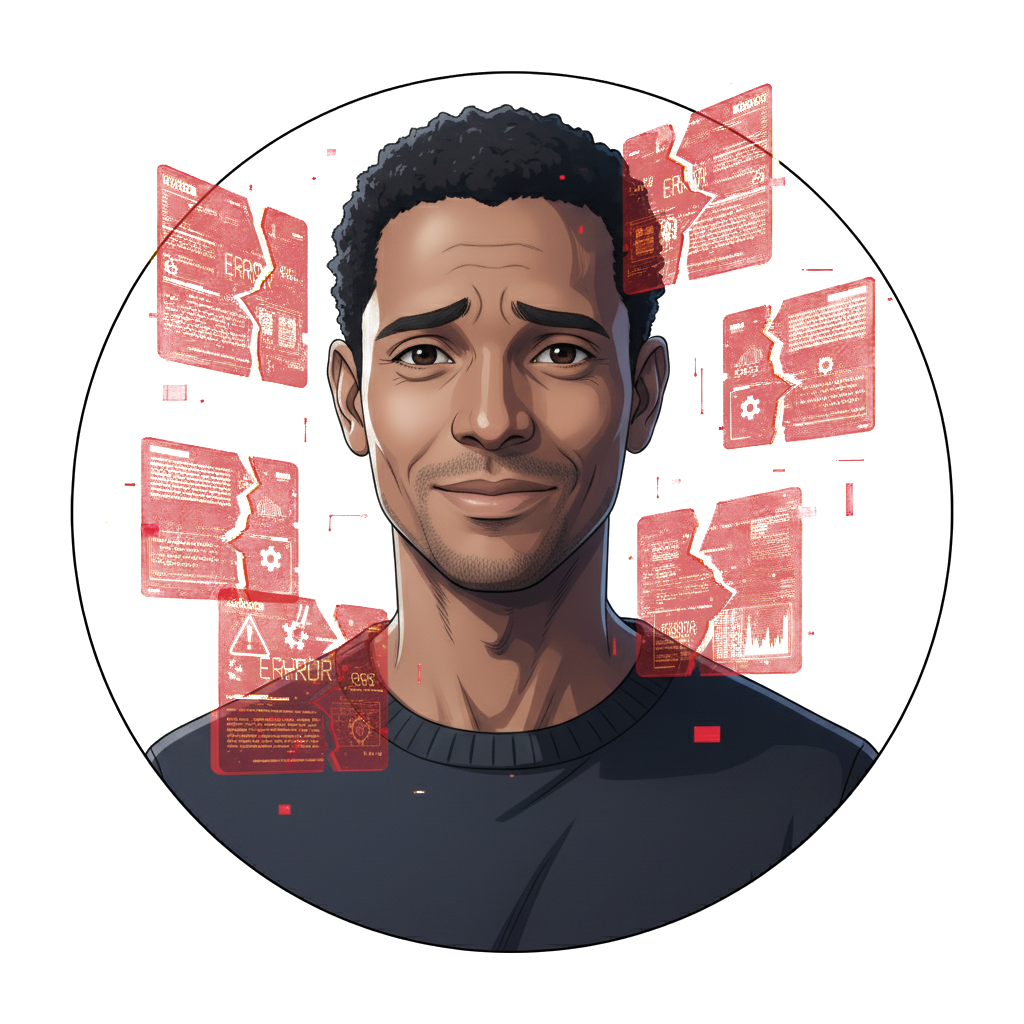
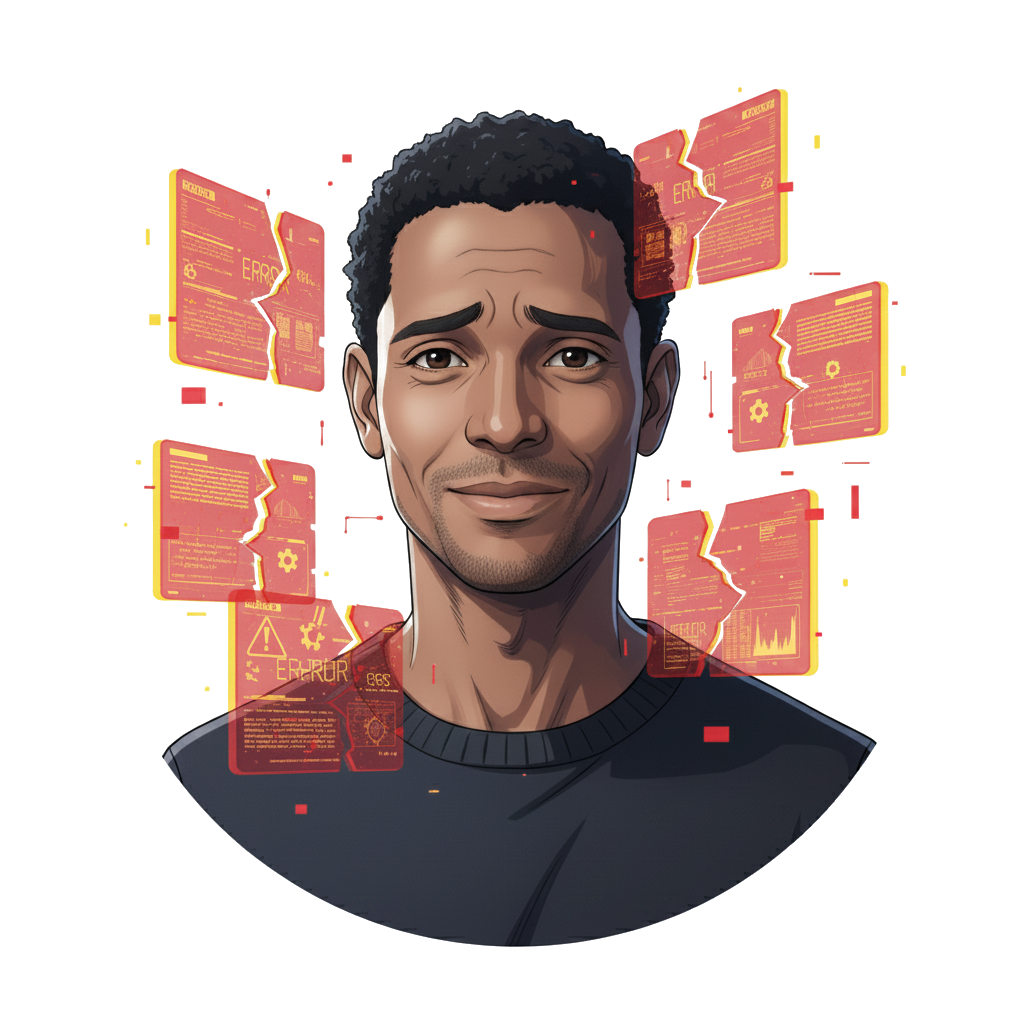
fix(sam): polish — single visible Sam, "Sam :" prefix on toasts/widget, login cleanup
Fixes Sam duplication and tightens copy/branding per user feedback.

UI changes:
- app/page.tsx: drop SamZone (kept global SamWidget bottom-right only —
  single Sam on screen, no more SamZone+SamWidget overlap).
- components/avatar/SamToast.tsx: avatar removed from toast layout (Sam's
  persistent face lives in the floating widget). Toasts now read as text
  messages prefixed by "Sam :" so the speaker is unambiguous without the
  visual overhead.
- components/avatar/SamWidget.tsx: bubble label refactored from a separate
  "SAM" header line to an inline "Sam :" prefix matching the toast style.
  MOOD_DROP_SHADOW upgraded to a stacked dual-shadow halo (close + far) for
  a softer, more visible mood aura without a hard ring (blue family for
  thinking/analysing, green for success, red for error, amber for welcome).

Login cleanup:
- app/login/page.tsx: remove SamAvatar + SamBubble from the hero (Sam not
  needed on the auth screen). Right column now hosts the login form alone.
- components/login/Logo.tsx: drop the "MDL Trafic" wordmark next to the SVG.
- app/login/page.tsx: footer "© MDL · usage interne" → "© Outils a usage
  interne uniquement".

Assets:
- public/sam/cutout/error.png: reprocessed with corner-sampled background
  removal (bg_color = [251,252,251] near-white, dist threshold + soft alpha).
  Sam's "panicking with red post-its" composition stays — those are part of
  the mood design, not background noise.
[…]

diff --git a/apps/web/components/avatar/SamToast.tsx b/apps/web/components/avatar/SamToast.tsx
@@ -1,12 +1,10 @@
 "use client";
 
 import * as React from "react";
-import Image from "next/image";
 import { motion, useReducedMotion } from "framer-motion";
 import { cn } from "@/lib/utils";
 import {
   SAM_MOOD_TOKENS,
-  samMoodImage,
   type SamMood,
 } from "@/lib/sam/moods";
 
@@ -21,12 +19,15 @@ export interface SamToastContentProps {
 
 /**
  * Custom layout used inside `sonner.toast.custom(...)`.
- * Horizontal: Sam avatar (round, holographic frame) + speech bubble.
+ *
+ * Sam's persistent avatar lives in the bottom-right `<SamWidget />`. Toasts
+ * are intentionally avatar-less to avoid the "two Sams on screen" effect —
+ * they read as text messages from Sam, prefixed with "Sam : " so the speaker
+ * is unambiguous.
  *
  * a11y:
  *  - `role="alert"` for `error`, `role="status"` for everything else.
  *  - `aria-live` driven by mood tokens.
- *  - Bubble linked to title via `aria-describedby`.
  *
  * Motion:
  *  - slide-in / scale-up via framer-motion.
@@ -70,38 +71,13 @@ export function SamToastContent({
           ? { duration: 0 }
           : { duration: 0.25, ease: [0.34, 1.56, 0.64, 1] /* back.out(1.2) approx */ }
       }
-      className={cn(
-        "flex items-start gap-3",
-        bubbleSide === "left" && "flex-row-reverse",
-        "pointer-events-auto",
-      )}
+      className="pointer-events-auto"
     >
-      {/* Avatar — holographic cyan/indigo frame */}
-      <div
-        className={cn(
-          "relative flex-shrink-0 size-14 rounded-full overflow-hidden",
-          "ring-2 ring-offset-2 ring-offset-zinc-950",
-          tokens.ring,
-          "bg-gradient-to-br from-cyan-500/20 via-indigo-500/20 to-violet-500/20",
-        )}
-        aria-hidden="true"
-      >
-        <Image
-          src={samMoodImage(mood)}
-          alt=""
-          fill
-          sizes="56px"
-          className="object-cover"
-          priority={false}
-          unoptimized
-        />
-      </div>
-
-      {/* Bubble */}
+      {/* Bubble — Sam speaks via text, no avatar (the floating SamWidget shows Sam) */}
       <div
         id={bubbleId}
         className={cn(
-          "relative max-w-[320px] rounded-lg px-3 py-3",
+          "relative max-w-[360px] rounded-lg px-3.5 py-3",
           "bg-zinc-900/95 backdrop-blur-md",
           "border",
           tokens.border,
@@ -118,7 +94,10 @@ export function SamToastContent({
             {title}
           </div>
         ) : null}
-        <div className="text-sm leading-snug text-zinc-100">{message}</div>
+        <div className="text-sm leading-snug text-zinc-100">
+          <span className={cn("font-semibold", tokens.title)}>Sam :</span>{" "}
+          {message}
+        </div>
 
         {/* Subtle accent tint stripe */}
         <span

diff --git a/apps/web/components/avatar/SamWidget.tsx b/apps/web/components/avatar/SamWidget.tsx
@@ -31,12 +31,20 @@ const PERSISTENT_MOODS = new Set(["analysing", "thinking"]);
  * the soft glow follows Sam's silhouette instead of a square frame.
  */
 const MOOD_DROP_SHADOW: Record<string, string> = {
-  based: "drop-shadow(0 6px 18px rgba(113, 113, 122, 0.32))",
-  welcome: "drop-shadow(0 6px 22px rgba(251, 191, 36, 0.36))",
-  analysing: "drop-shadow(0 6px 22px rgba(34, 211, 238, 0.36))",
-  thinking: "drop-shadow(0 6px 22px rgba(129, 140, 248, 0.36))",
-  goodjob: "drop-shadow(0 6px 22px rgba(52, 211, 153, 0.36))",
-  error: "drop-shadow(0 6px 22px rgba(248, 113, 113, 0.36))",
+  // Subtle mood auras: blue family for thinking/analysing, green for success, red for error.
+  // Two stacked drop-shadows (close + far) for a soft halo without a hard ring.
+  based:
+    "drop-shadow(0 4px 14px rgba(113, 113, 122, 0.28)) drop-shadow(0 0 28px rgba(113, 113, 122, 0.18))",
+  welcome:
+    "drop-shadow(0 4px 14px rgba(251, 191, 36, 0.30)) drop-shadow(0 0 28px rgba(251, 191, 36, 0.18))",
+  analysing:
+    "drop-shadow(0 4px 14px rgba(34, 211, 238, 0.34)) drop-shadow(0 0 32px rgba(34, 211, 238, 0.22))",
+  thinking:
+    "drop-shadow(0 4px 14px rgba(129, 140, 248, 0.34)) drop-shadow(0 0 32px rgba(129, 140, 248, 0.22))",
+  goodjob:
+    "drop-shadow(0 4px 14px rgba(52, 211, 153, 0.36)) drop-shadow(0 0 32px rgba(52, 211, 153, 0.24))",
+  error:
+    "drop-shadow(0 4px 14px rgba(248, 113, 113, 0.36)) drop-shadow(0 0 32px rgba(248, 113, 113, 0.24))",
 };
 
 export function SamWidget() {
@@ -102,10 +110,10 @@ export function SamWidget() {
               tokens.border,
             )}
           >
-            <p className={cn("text-[10px] font-semibold uppercase tracking-wide", tokens.title)}>
-              Sam
+            <p className="text-xs leading-snug text-zinc-100">
+              <span className={cn("font-semibold", tokens.title)}>Sam :</span>{" "}
+              {message}
             </p>
-            <p className="text-xs leading-snug text-zinc-100">{message}</p>
           </motion.div>
         ) : null}
       </AnimatePresence>

diff --git a/apps/web/app/login/page.tsx b/apps/web/app/login/page.tsx
@@ -1,5 +1,3 @@
-import { SamAvatar } from "@/components/avatar/SamAvatar";
-import { SamBubble } from "@/components/avatar/SamBubble";
 import { Logo } from "@/components/login/Logo";
 import { HeroSection } from "@/components/login/HeroSection";
 import { FeaturesPills } from "@/components/login/FeaturesPills";
@@ -70,26 +68,8 @@ export default function LoginPage() {
               </div>
             </section>
 
-            {/* RIGHT — 2/5 ≈ 40%, sticky-centered on desktop.
-                Sam (xl, welcome mood) greets the user above the form. */}
+            {/* RIGHT — 2/5 ≈ 40%, sticky-centered on desktop. */}
             <section className="flex flex-col items-center justify-center gap-6 lg:col-span-2 lg:sticky lg:top-10 lg:self-start">
-              <div
-                data-enter="sam"
-                className="flex w-full max-w-md flex-col items-center gap-3"
-              >
-                <SamAvatar
-                  mood="welcome"
-                  placement="inline"
-                  size="xl"
-                />
-                <SamBubble
-                  message="Salut, content de te revoir !"
-                  subtitle="Connecte-toi pour acceder a tes outils."
-                  size="lg"
-                  side="top"
-                  className="ml-0 mb-0 text-center"
-                />
-              </div>
               <div className="w-full max-w-md">
                 <LoginForm />
               </div>
@@ -101,7 +81,7 @@ export default function LoginPage() {
             data-enter="footer"
             className="mt-12 border-t border-white/[0.04] pt-4 text-xs text-zinc-600"
           >
-            © MDL · usage interne
+            © Outils a usage interne uniquement
           </footer>
         </div>
       </PageEnter>

diff --git a/apps/web/app/page.tsx b/apps/web/app/page.tsx
@@ -189,12 +189,7 @@ export default function HomePage() {
         </footer>
       </main>
 
-      {/* Sam floating card (fixed bottom-right) */}
-      <SamZone
-        SamAvatar={SamAvatar}
-        message={content.sam.welcomeBubble}
-        subtitle={content.sam.welcomeSubtitle}
-      />
+      {/* SamWidget is mounted globally in app/layout.tsx, no per-page SamZone. */}
     </>
   );
 }

diff --git a/apps/web/components/login/Logo.tsx b/apps/web/components/login/Logo.tsx
@@ -49,9 +49,6 @@ export function Logo({ className }: { className?: string }) {
           opacity="0.35"
         />
       </svg>
-      <span className="font-mono text-sm font-semibold tracking-tight text-zinc-100">
-        MDL Trafic
-      </span>
     </div>
   );
 }